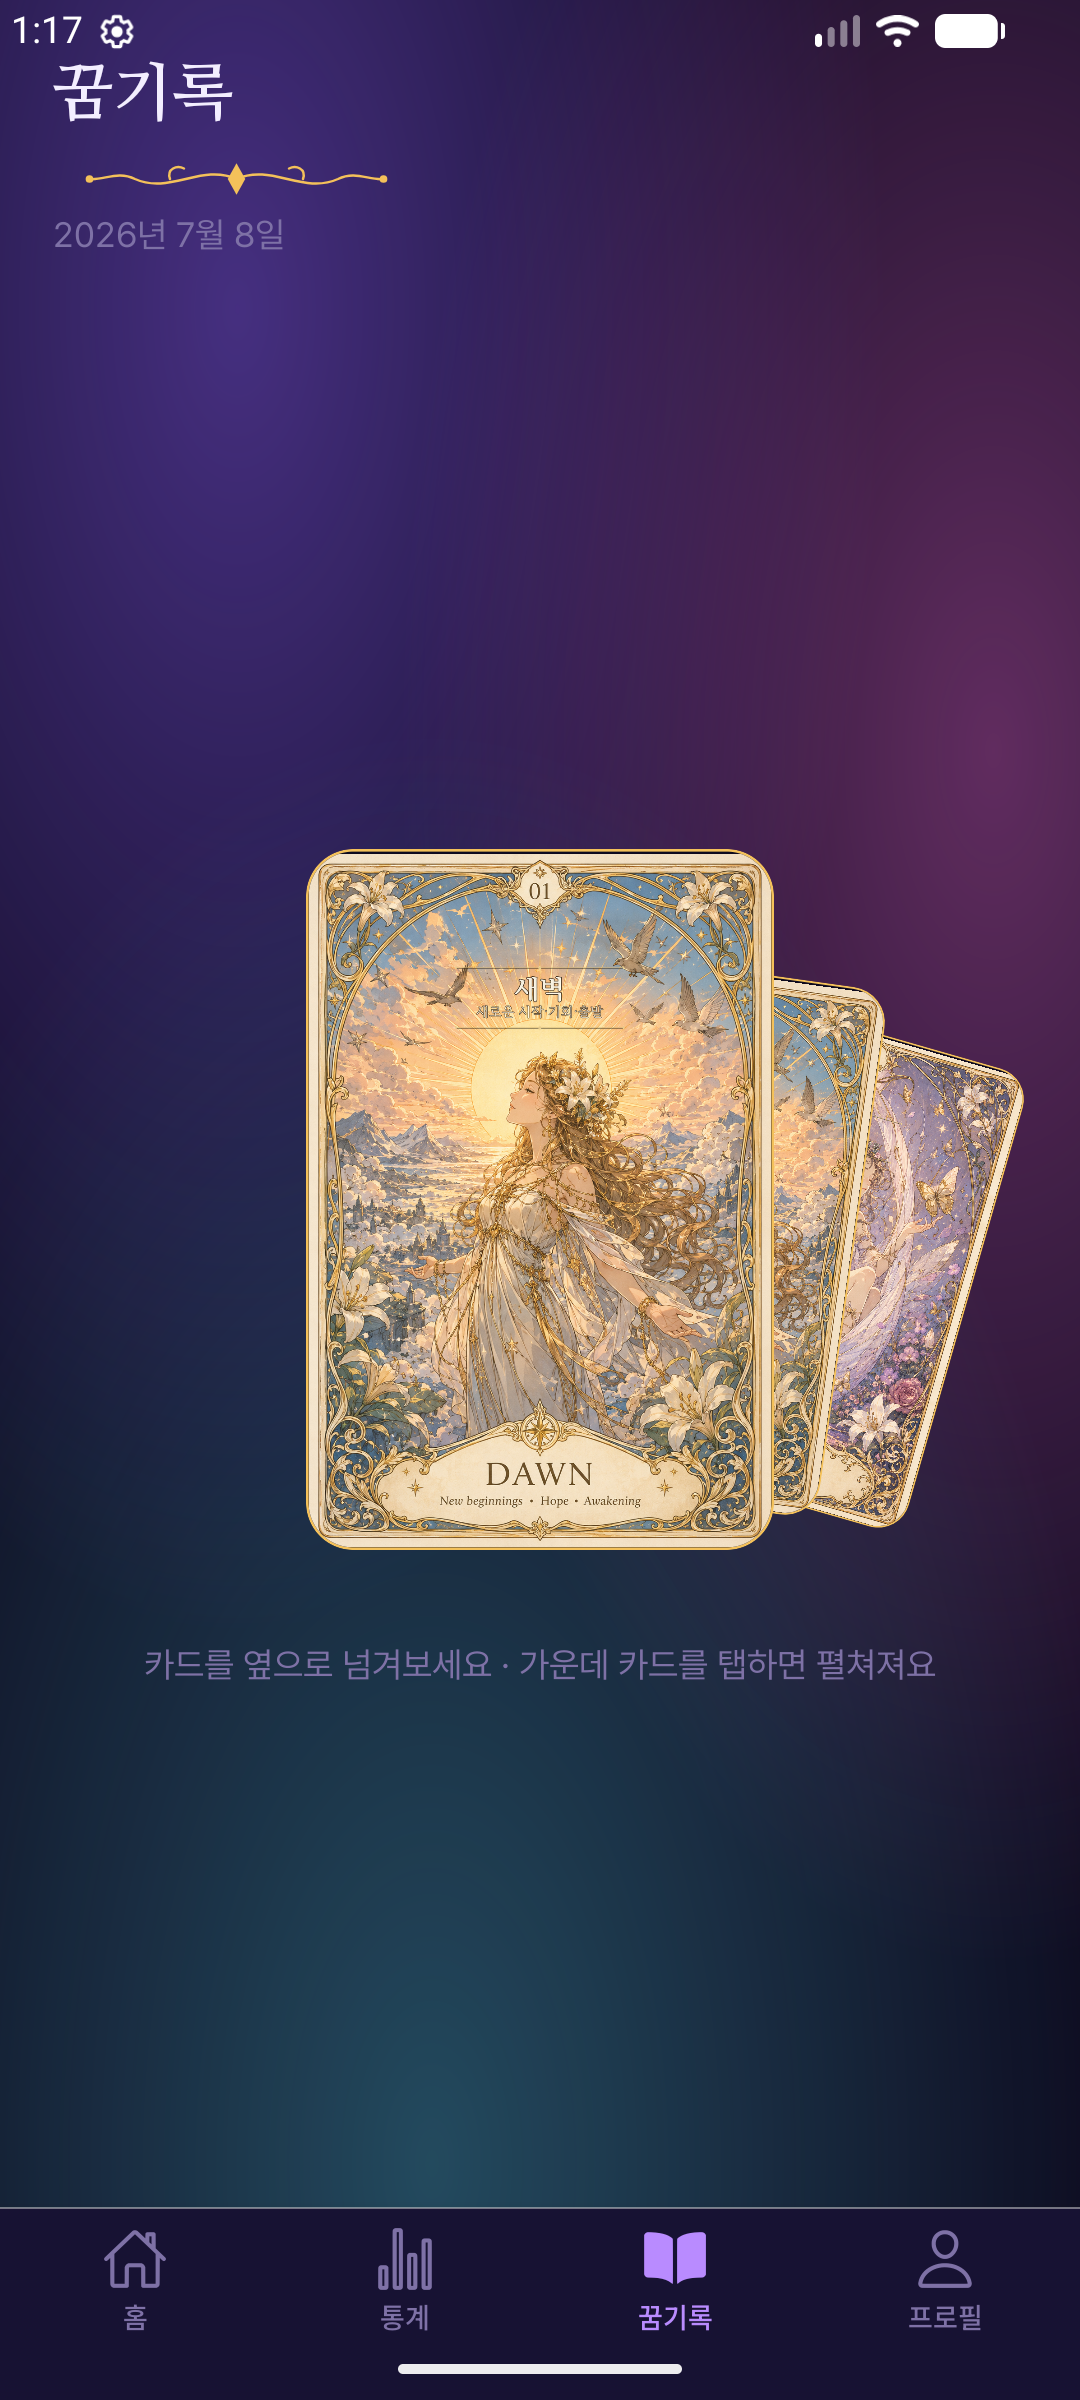
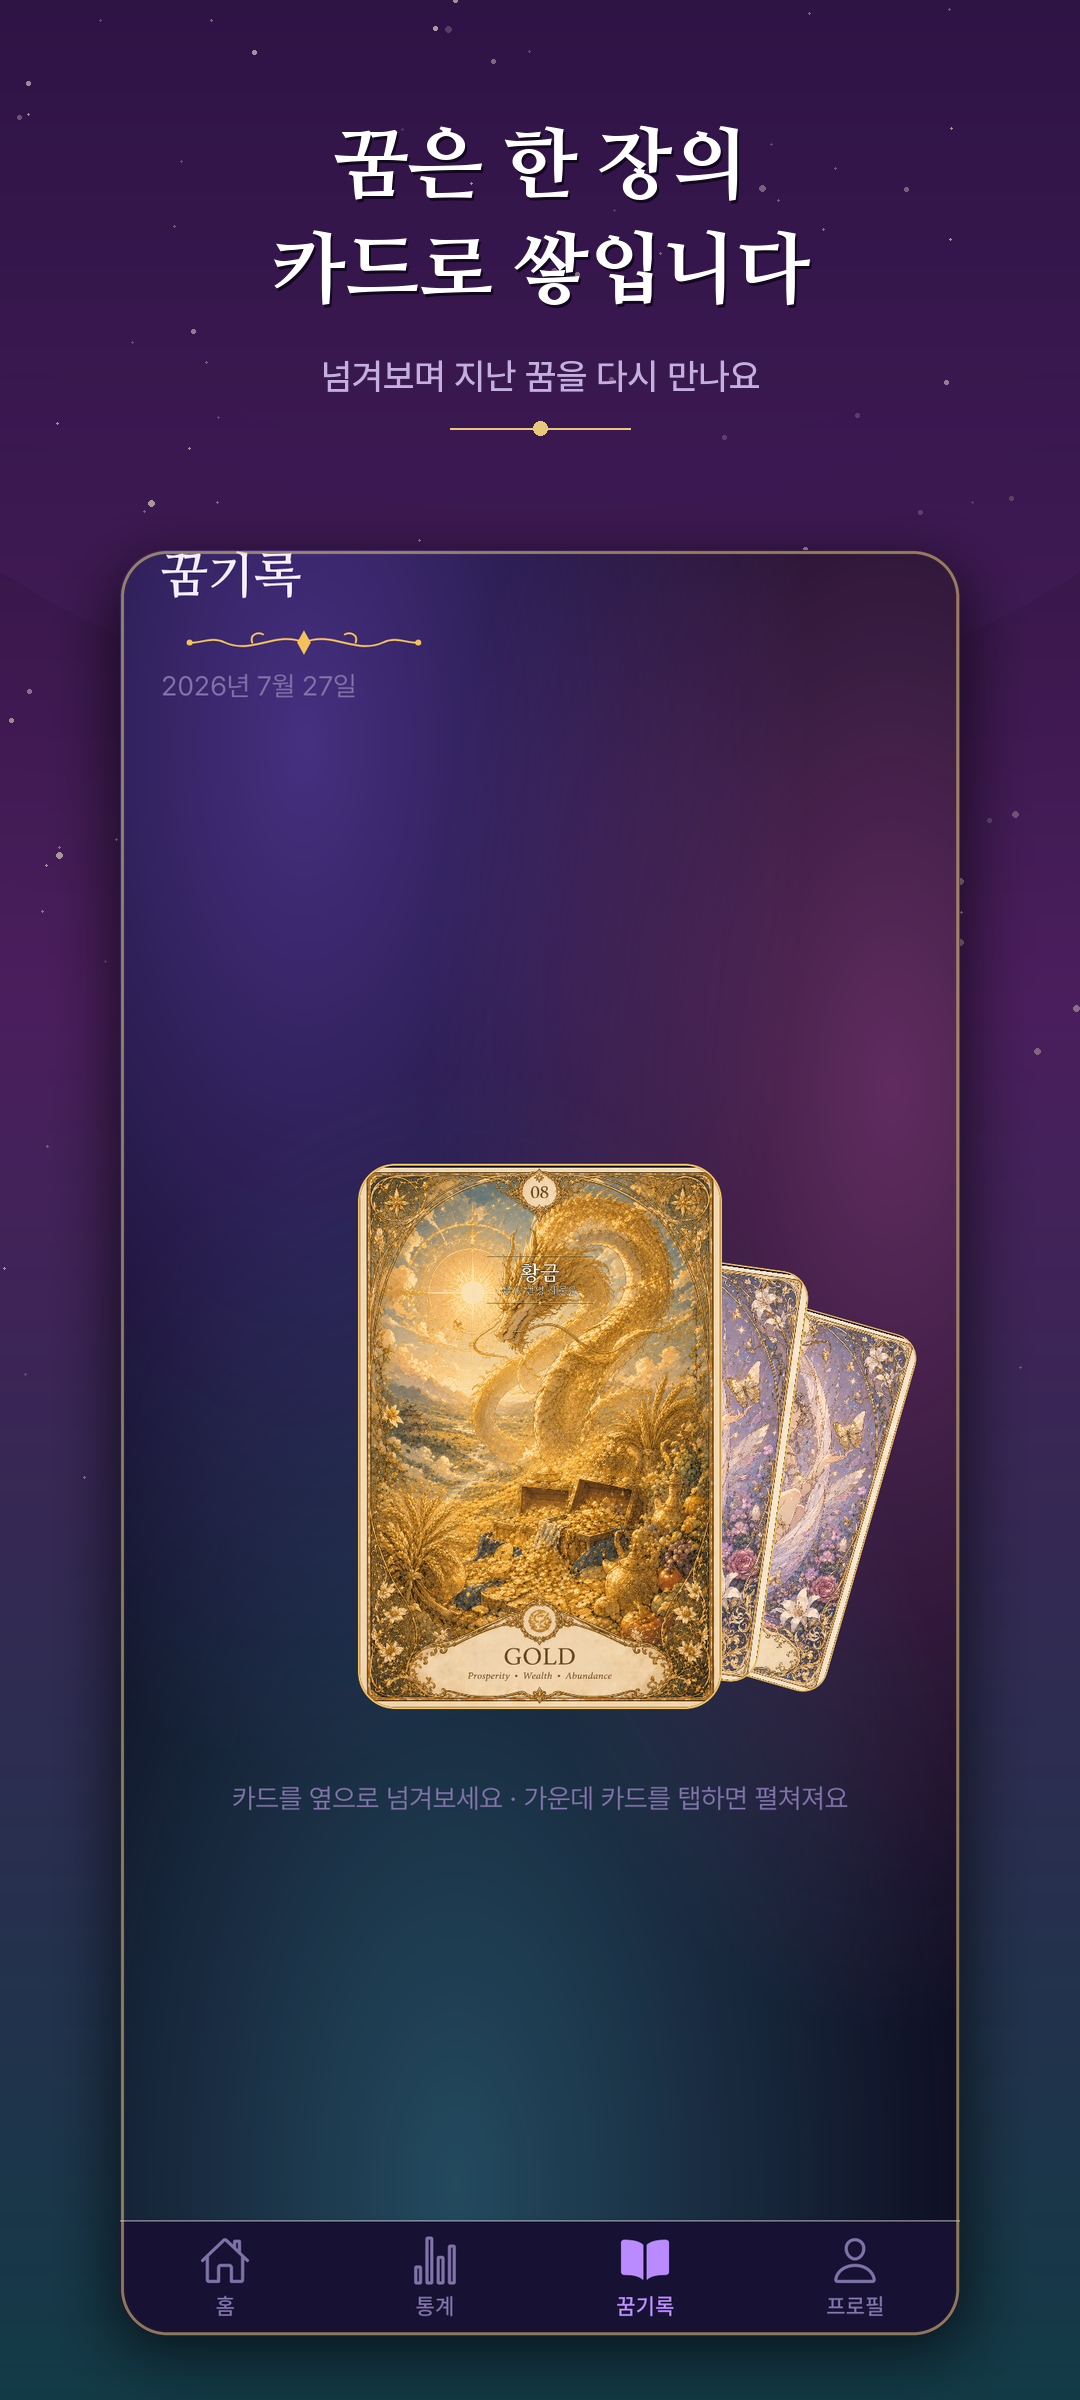
feat(store-assets): 스토어 스크린샷 6장 교체 — 한글 꿈 재캡처 + 홍보문구 합성
스크린샷 5장을 실기에서 새로 찍고, 6장 전부에 배경·프레임·홍보문구를 합성했다.

- 재캡처(raw/): 홈·꿈기록·통계·꿈 카드·해몽 상세. 전부 한글 꿈 한 건
  ("돌아가신 할머니가 …금반지…구렁이")으로 통일해 화면끼리 데이터가 맞는다.
  종전 해몽 스크린샷은 꿈 원문이 영어였고 UI도 한 프레임 통합 이전 것이었다.
- 스플래시는 브랜드 화면이라 내용이 바뀌지 않으므로 기존 캡처를 그대로 쓴다.
- 합성 단계에서 상태바·제스처바를 잘라내, 캡처 시각이 제각각인 문제를 없앴다.

scripts/gen-store-screenshots.py로 재생성한다. 문구만 고칠 때는 재캡처가
필요 없고, raw/를 덮어쓰면 화면만 갈아끼울 수 있다.

diff --git a/scripts/gen-store-screenshots.py b/scripts/gen-store-screenshots.py
@@ -1,0 +1,217 @@
+"""Play 스토어용 폰 스크린샷 6장을 만든다.
+
+원본 캡처(raw/)를 배경 그라디언트 위에 얹고, 위쪽에 홍보 문구를 넣는다.
+캡처 자체는 건드리지 않으므로 재캡처 없이 문구만 바꿔 다시 돌릴 수 있다.
+
+    python scripts/gen-store-screenshots.py
+
+입력  : docs/release/store-assets/raw/<name>.png   (1080x2400 실기 캡처)
+출력  : docs/release/store-assets/screenshot-N-*.png (1080x2400)
+"""
+
+from __future__ import annotations
+
+import random
+from pathlib import Path
+
+from PIL import Image, ImageDraw, ImageFilter, ImageFont
+
+ROOT = Path(__file__).resolve().parent.parent
+ASSETS = ROOT / "docs" / "release" / "store-assets"
+RAW = ASSETS / "raw"
+FONTS = ROOT / "frontend" / "assets" / "fonts"
+
+W, H = 1080, 2400
+
+# 앱 배경과 같은 계열. 위 보라 → 아래 청록.
+GRAD_TOP = (42, 17, 64)
+GRAD_MID = (74, 30, 92)
+GRAD_BOT = (18, 58, 70)
+
+GOLD = (232, 200, 122)
+HEADLINE = (255, 255, 255)
+SUBLINE = (196, 176, 222)
+
+# 캡처에서 잘라낼 영역. 상단 상태바(시계·배터리)와 하단 제스처바를 없애
+# 6장의 상태바가 제각각인 문제를 아예 제거한다.
+CROP_TOP = 60
+CROP_BOTTOM = 44
+
+DEVICE_W = 840
+DEVICE_X = (W - DEVICE_W) // 2
+DEVICE_Y = 550
+CORNER = 46
+
+SHOTS = [
+    {
+        "out": "screenshot-1-splash.png",
+        "raw": "1-splash.png",
+        "headline": ["밤마다 찾아오는 꿈,", "오래된 시선으로"],
+        "sub": "전통 해몽을 바탕으로 풀어드립니다",
+    },
+    {
+        "out": "screenshot-2-home.png",
+        "raw": "2-home.png",
+        "headline": ["꿈을 적으면,", "바로 풀어드려요"],
+        "sub": "텍스트로 쓰거나 음성으로 들려주세요",
+    },
+    {
+        "out": "screenshot-3-diary-cards.png",
+        "raw": "3-diary-cards.png",
+        "headline": ["꿈은 한 장의", "카드로 쌓입니다"],
+        "sub": "넘겨보며 지난 꿈을 다시 만나요",
+    },
+    {
+        "out": "screenshot-4-stats.png",
+        "raw": "4-stats.png",
+        "headline": ["내 꿈의 흐름을", "한눈에"],
+        "sub": "자주 등장한 상징과 기록 추이",
+    },
+    {
+        "out": "screenshot-5-card.png",
+        "raw": "5-card.png",
+        "headline": ["오늘의 꿈에", "드리운 상징 한 장"],
+        "sub": "아르누보 감성의 꿈 카드",
+    },
+    {
+        "out": "screenshot-6-interpretation.png",
+        "raw": "6-interpretation.png",
+        "headline": ["종합 해몽부터", "오늘의 한마디까지"],
+        "sub": "관계 · 재물 · 직장까지 나눠서 읽어드려요",
+    },
+]
+
+
+def load_font(name: str, size: int) -> ImageFont.FreeTypeFont:
+    return ImageFont.truetype(str(FONTS / name), size)
+
+
+def background() -> Image.Image:
+    """세로 그라디언트 + 은은한 보라 광원 + 별."""
+    bg = Image.new("RGB", (W, H))
+    px = bg.load()
+    for y in range(H):
+        t = y / (H - 1)
+        if t < 0.42:
+            k = t / 0.42
+            a, b = GRAD_TOP, GRAD_MID
+        else:
+            k = (t - 0.42) / 0.58
+            a, b = GRAD_MID, GRAD_BOT
+        col = tuple(round(a[i] + (b[i] - a[i]) * k) for i in range(3))
+        for x in range(W):
+            px[x, y] = col
+
+    glow = Image.new("RGB", (W, H), (0, 0, 0))
+    gd = ImageDraw.Draw(glow)
+    gd.ellipse([-260, -420, W + 260, 720], fill=(96, 44, 132))
+    bg = Image.blend(bg, Image.blend(bg, glow, 0.0), 0.0)
+    bg = Image.composite(
+        Image.blend(bg, glow, 0.28), bg, glow.convert("L").filter(ImageFilter.GaussianBlur(180))
+    )
+
+    stars = Image.new("RGBA", (W, H), (0, 0, 0, 0))
+    sd = ImageDraw.Draw(stars)
+    rng = random.Random(20260727)
+    for _ in range(130):
+        x = rng.randrange(0, W)
+        y = rng.randrange(0, int(H * 0.62))
+        r = rng.choice([1, 1, 1, 2, 2, 3])
+        a = rng.randint(40, 150)
+        sd.ellipse([x - r, y - r, x + r, y + r], fill=(255, 245, 220, a))
+    bg = Image.alpha_composite(bg.convert("RGBA"), stars).convert("RGB")
+    return bg
+
+
+def rounded_mask(size: tuple[int, int], radius: int, ss: int = 4) -> Image.Image:
+    w, h = size
+    m = Image.new("L", (w * ss, h * ss), 0)
+    ImageDraw.Draw(m).rounded_rectangle([0, 0, w * ss - 1, h * ss - 1], radius * ss, fill=255)
+    return m.resize((w, h), Image.LANCZOS)
+
+
+def device_plate(raw_path: Path) -> tuple[Image.Image, Image.Image]:
+    """캡처를 잘라 기기 크기로 줄이고, (이미지, 마스크)를 돌려준다."""
+    src = Image.open(raw_path).convert("RGB")
+    if src.size != (W, H):
+        src = src.resize((W, H), Image.LANCZOS)
+    src = src.crop((0, CROP_TOP, W, H - CROP_BOTTOM))
+
+    scale = DEVICE_W / src.width
+    dev = src.resize((DEVICE_W, round(src.height * scale)), Image.LANCZOS)
+
+    # 기기 판이 캔버스 안에 온전히 들어오게 한다. 아래로 흘려보내면
+    # 하단 탭바 아이콘 한가운데가 잘려 어색해진다.
+    max_h = H - DEVICE_Y - 60
+    if dev.height > max_h:
+        dev = dev.crop((0, 0, DEVICE_W, max_h))
+    return dev, rounded_mask(dev.size, CORNER)
+
+
+def draw_text(canvas: Image.Image, spec: dict) -> None:
+    d = ImageDraw.Draw(canvas)
+    head = load_font("NanumMyeongjo-ExtraBold.ttf", 78)
+    sub = load_font("Pretendard-Medium.ttf", 36)
+
+    y = 128
+    for line in spec["headline"]:
+        w = d.textlength(line, font=head)
+        d.text(((W - w) / 2 + 2, y + 3), line, font=head, fill=(20, 8, 32))
+        d.text(((W - w) / 2, y), line, font=head, fill=HEADLINE)
+        y += 104
+
+    y += 18
+    w = d.textlength(spec["sub"], font=sub)
+    d.text(((W - w) / 2, y), spec["sub"], font=sub, fill=SUBLINE)
+
+    # 문구와 기기 사이를 끊어 주는 금색 구분선
+    y += 74
+    d.line([(W / 2 - 90, y), (W / 2 + 90, y)], fill=GOLD, width=2)
+    d.ellipse([W / 2 - 7, y - 7, W / 2 + 7, y + 7], fill=GOLD)
+
+
+def compose(spec: dict) -> Path:
+    canvas = background()
+    dev, mask = device_plate(RAW / spec["raw"])
+
+    shadow = Image.new("RGBA", (W, H), (0, 0, 0, 0))
+    sd = ImageDraw.Draw(shadow)
+    sd.rounded_rectangle(
+        [DEVICE_X - 6, DEVICE_Y + 16, DEVICE_X + DEVICE_W + 6, DEVICE_Y + dev.height + 16],
+        CORNER,
+        fill=(0, 0, 0, 165),
+    )
+    shadow = shadow.filter(ImageFilter.GaussianBlur(30))
+    canvas = Image.alpha_composite(canvas.convert("RGBA"), shadow).convert("RGB")
+
+    canvas.paste(dev, (DEVICE_X, DEVICE_Y), mask)
+
+    # 금색 헤어라인 테두리(안티에일리어싱 위해 4배로 그려 축소)
+    ss = 4
+    line = Image.new("RGBA", (DEVICE_W * ss, dev.height * ss), (0, 0, 0, 0))
+    ImageDraw.Draw(line).rounded_rectangle(
+        [ss, ss, DEVICE_W * ss - ss, dev.height * ss - ss],
+        CORNER * ss,
+        outline=GOLD + (140,),
+        width=3 * ss,
+    )
+    line = line.resize((DEVICE_W, dev.height), Image.LANCZOS)
+    canvas.paste(line, (DEVICE_X, DEVICE_Y), line)
+
+    draw_text(canvas, spec)
+
+    out = ASSETS / spec["out"]
+    canvas.save(out, "PNG", optimize=True)
+    return out
+
+
+def main() -> None:
+    for spec in SHOTS:
+        raw = RAW / spec["raw"]
+        if not raw.exists():
+            raise SystemExit(f"원본 캡처가 없습니다: {raw}")
+        print("wrote", compose(spec).name)
+
+
+if __name__ == "__main__":
+    main()

diff --git a/docs/release/store-assets/README.md b/docs/release/store-assets/README.md
@@ -11,7 +11,7 @@ Play Console > 스토어 등록정보에 업로드하세요. 문구는 `../store
 |---|---|
 | `icon-512.png`, 인앱 `mascot.png`, 런처 mipmap, `splash_logo.png` | `scripts/apply-monkey-icon.ps1` |
 | `feature-graphic-1024x500.png` | `scripts/gen-store-graphics.ps1` |
-| `screenshot-1-splash.png`의 마스코트 | `scripts/refresh-splash-screenshot.py` |
+| `screenshot-*.png` 6장 (`raw/` 캡처 + 홍보문구 합성) | `scripts/gen-store-screenshots.py` |
 
 `gen-store-graphics.ps1`은 더 이상 `icon-512.png`를 만들지 않습니다(덮어쓰기 사고 방지).
 
@@ -22,20 +22,40 @@ Play Console > 스토어 등록정보에 업로드하세요. 문구는 `../store
 | `icon-512.png` | 앱 아이콘 | 512×512 |
 | `feature-graphic-1024x500.png` | 피처 그래픽(필수) | 1024×500 |
 | `screenshot-2-home.png` | 폰 스크린샷 — 홈(꿈 입력) | 1080×2400 |
-| `screenshot-5-card.png` | 폰 스크린샷 — 아르누보 꿈 카드(전체) | 1080×2400 |
-| `screenshot-6-interpretation.png` | 폰 스크린샷 — 해몽 상세 | 1080×2400 |
+| `screenshot-5-card.png` | 폰 스크린샷 — 해몽 결과의 꿈 카드(뒤집기 전) | 1080×2400 |
+| `screenshot-6-interpretation.png` | 폰 스크린샷 — 해몽 상세(카드를 뒤집은 뒤) | 1080×2400 |
 | `screenshot-3-diary-cards.png` | 폰 스크린샷 — 꿈기록(팬 캐러셀) | 1080×2400 |
 | `screenshot-4-stats.png` | 폰 스크린샷 — 통계 | 1080×2400 |
 | `screenshot-1-splash.png` | 폰 스크린샷 — 스플래시 | 1080×2400 |
 
 - Play는 폰 스크린샷 **최소 2장**(2~8장 권장). 위 순서대로 2·5·6·3·4를 권장(홈→카드→해몽→기록→통계).
-- 스크린샷은 개발 빌드의 테스트 데이터("I saw a ship" 등)로 캡처됨 — 원하면 실제 한글 꿈으로 재캡처 가능.
+
+## 스크린샷은 2단 구조 — `raw/` 캡처 + 합성
+
+`screenshot-*.png`는 손으로 만든 이미지가 아니라 **`raw/`의 실기 캡처를 합성한 결과물**입니다.
+
+| 단계 | 내용 |
+|---|---|
+| `raw/N-*.png` | 에뮬레이터 실기 캡처 원본 1080×2400 (손대지 않음) |
+| `screenshot-N-*.png` | 위를 배경 그라디언트에 얹고 상단에 홍보 문구를 넣은 최종본 |
+
+합성 단계에서 캡처의 **상태바(시계·배터리)와 하단 제스처바를 잘라냅니다.**
+6장의 캡처 시각이 제각각이어도 최종본에는 드러나지 않습니다.
+
+- 2026-07-27 기준 `raw/`는 전부 **한글 꿈 한 건**("돌아가신 할머니가 …금반지…구렁이")으로
+  통일해 재캡처했습니다. 해몽·꿈기록·통계가 서로 같은 데이터를 가리킵니다.
+  `1-splash.png`만 기존 캡처를 그대로 씁니다(브랜드 화면이라 내용이 바뀌지 않음).
 
 ## 재생성 방법
 
 - 아이콘 계열(런처/인앱/스플래시/512): `& "scripts\apply-monkey-icon.ps1"`
 - 피처 그래픽: `& "scripts\gen-store-graphics.ps1"` (색/문구는 스크립트 상수 수정)
-- 스플래시 스크린샷의 마스코트만 갱신: `python scripts/refresh-splash-screenshot.py`
-- 스크린샷 전체 재캡처: 에뮬레이터에서 원하는 화면 띄우고
-  `adb exec-out screencap -p > shot.png`
-  (재캡처하면 `refresh-splash-screenshot.py`를 다시 돌릴 필요 없음 — 앱이 이미 새 원숭이를 렌더함)
+- **문구만 바꾸기**: `scripts/gen-store-screenshots.py`의 `SHOTS` 수정 후
+  `python scripts/gen-store-screenshots.py` — 재캡처 불필요
+- **화면을 새로 찍기**: 에뮬레이터에서 원하는 화면을 띄우고
+  `adb exec-out screencap -p > docs/release/store-assets/raw/2-home.png`
+  로 덮어쓴 뒤 위 스크립트를 다시 실행
+  - 한글은 `adb shell input text`로 입력되지 않습니다. 호스트에서
+    `Set-Clipboard "…"` 한 뒤 입력창을 탭하고 `adb shell input keyevent 279`(붙여넣기),
+    `adb shell input keyevent 111`(ESC, 키보드 닫기) 순으로 넣으세요.
+    뒤로가기(keyevent 4)를 두 번 누르면 앱이 종료되니 주의.
